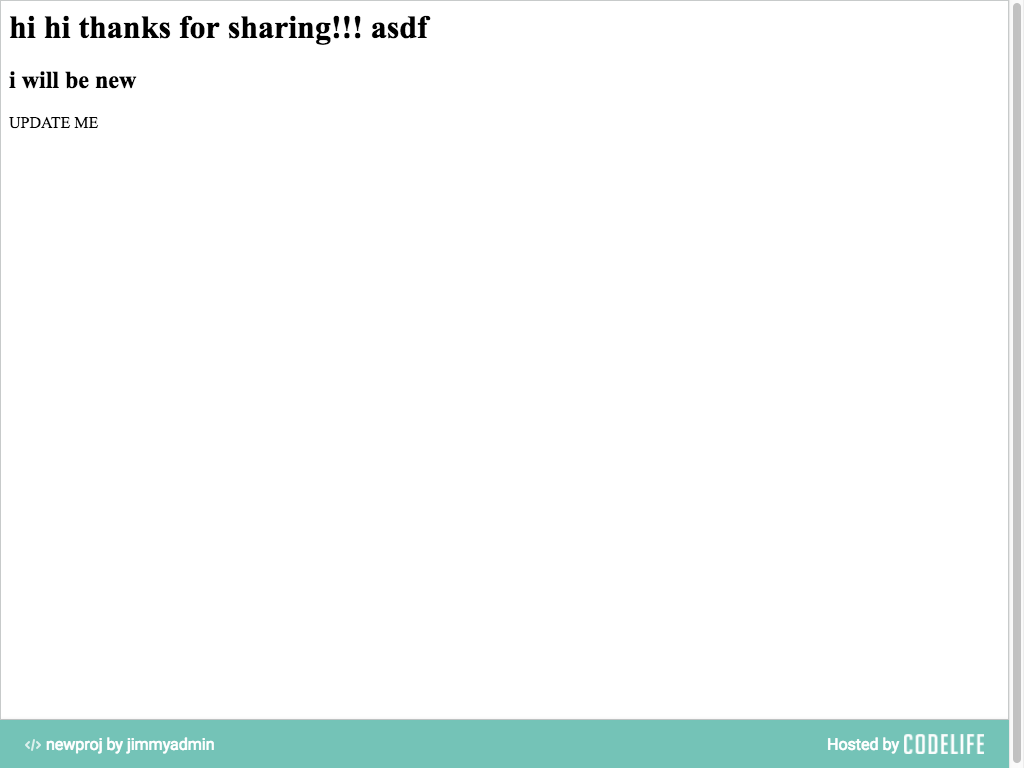
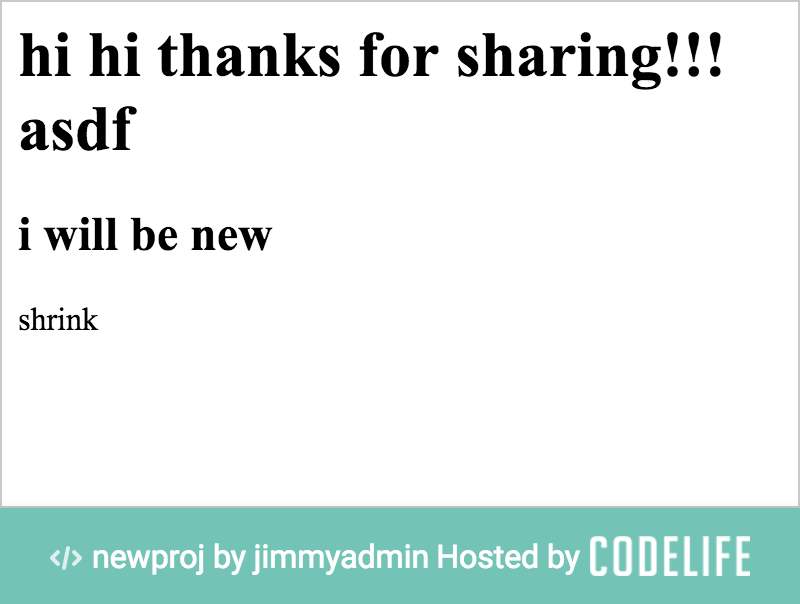
adds codeblocklist back in and fixes fork behavior to handle opening

diff --git a/app/components/CodeBlockList.jsx b/app/components/CodeBlockList.jsx
@@ -20,6 +20,7 @@ class CodeBlockList extends Component {
   componentDidMount() {
     const cbget = axios.get("/api/codeBlocks/all");
     const upget = axios.get("/api/userprogress/mine");
+    const MAX_LENGTH = 5;
     Promise.all([cbget, upget]).then(resp => {
       const allCodeBlocks = resp[0].data;
       const userProgress = resp[1].data.progress;
@@ -36,10 +37,20 @@ class CodeBlockList extends Component {
             island.myCodeBlocks.push(cb);
           }
           else {
-            cb.liked ? island.likedCodeBlocks.push(cb) : island.unlikedCodeBlocks.push(cb);
+            if (cb.liked) {
+              if (island.likedCodeBlocks.length <= MAX_LENGTH) {
+                island.likedCodeBlocks.push(cb);
+              }
+            }
+            else {
+              if (island.unlikedCodeBlocks.length <= MAX_LENGTH) {
+                island.unlikedCodeBlocks.push(cb);
+              }
+            }
           }
         }
       }
+
       this.setState({islands, userProgress});
     });
   }
@@ -72,6 +83,10 @@ class CodeBlockList extends Component {
     this.setState({[l]: !this.state[l]});
   }
 
+  handleFork(newid, projects) {
+    if (this.props.handleFork) this.props.handleFork(newid, projects);
+  }
+
   render() {
     const {islands, userProgress} = this.state;
 
@@ -92,7 +107,7 @@ class CodeBlockList extends Component {
       const thisIslandItems = [];
       for (const s of i.myCodeBlocks.concat(i.likedCodeBlocks, i.unlikedCodeBlocks)) {
         thisIslandItems.push(
-          <li><CodeBlockCard theme={i.theme} icon={i.icon} codeBlock={s} userProgress={userProgress} reportLike={this.reportLike.bind(this)} projectMode={true}/></li>
+          <li><CodeBlockCard handleFork={this.handleFork.bind(this)} theme={i.theme} icon={i.icon} codeBlock={s} userProgress={userProgress} reportLike={this.reportLike.bind(this)} projectMode={true}/></li>
         );
       }
       codeBlockItems.push(<Collapse isOpen={this.state[i.id]}>{thisIslandItems}</Collapse>);

diff --git a/api/projectsRoute.js b/api/projectsRoute.js
@@ -142,15 +142,14 @@ module.exports = function(app) {
     db.projects.update({studentcontent: req.body.studentcontent, name: req.body.name, datemodified: db.fn("NOW")}, {where: {id: req.body.id}, returning: true, plain: true})
       .then(u => {
         const url = `http://localhost:3300/projects/${req.body.username}/${req.body.name}`;
-        const width = 800;
-        const height = 600;
+        const width = 400;
+        const height = 300;
         const page = true;
         const delay = 3000;
         screenshot({url, width, height, page, delay}).then(img => {
           const imgPath = path.join(process.cwd(), "/static/pj_images", `${u[1].id}.png`);
           fs.writeFile(imgPath, img.data, err => {
             console.log(err);
-            //screenshot.close();
           });
         });
 

diff --git a/app/pages/Projects.jsx b/app/pages/Projects.jsx
@@ -251,6 +251,10 @@ class Projects extends Component {
     this.editor.getWrappedInstance().getWrappedInstance().executeCode();
   }
 
+  handleFork(newid, projects) {
+    this.setState({projects}, this.openProject.bind(this, newid));
+  }
+
   render() {
 
     const {auth, t} = this.props;
@@ -388,6 +392,9 @@ class Projects extends Component {
                 <span className="pt-icon pt-icon-application" />
                 { t("create new project") } 👈
               </button>
+
+              <h3>BROWSE CODEBLOCKS</h3>
+              <CodeBlockList handleFork={this.handleFork.bind(this)} />
 
             </div>
           </div>

diff --git a/app/components/CodeBlockCard.jsx b/app/components/CodeBlockCard.jsx
@@ -60,7 +60,13 @@ class CodeBlockCard extends Component {
         const projects = resp.data.projects;
         const newid = resp.data.id;
         const currentProject = projects.find(p => p.id === newid);
-        browserHistory.push(`/projects/${this.props.user.username}/${currentProject.name}/edit`);
+        this.setState({open: false});
+        if (this.props.handleFork) {
+          this.props.handleFork(newid, projects);
+        }
+        else {
+          browserHistory.push(`/projects/${this.props.user.username}/${currentProject.name}/edit`);  
+        }
       }
       else {
         alert("Error");

diff --git a/api/codeBlocksRoute.js b/api/codeBlocksRoute.js
@@ -48,8 +48,8 @@ module.exports = function(app) {
     db.codeblocks.update({studentcontent: req.body.studentcontent, snippetname: req.body.name}, {where: {uid: req.body.uid, lid: req.body.iid}, returning: true, plain: true})
       .then(u => {
         const url = `http://localhost:3300/codeBlocks/${req.body.username}/${req.body.name}`;
-        const width = 800;
-        const height = 600;
+        const width = 400;
+        const height = 300;
         const page = true;
         const delay = 3000;
         screenshot({url, width, height, page, delay}).then(img => {
